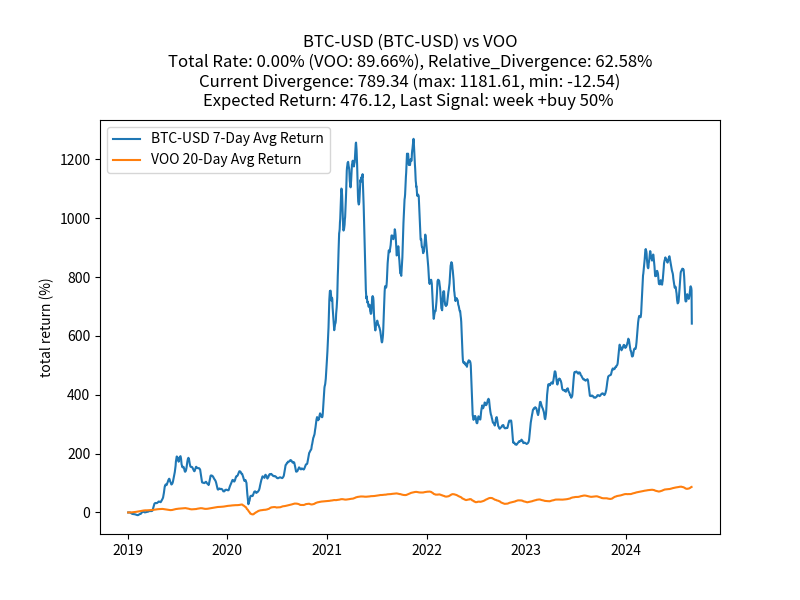
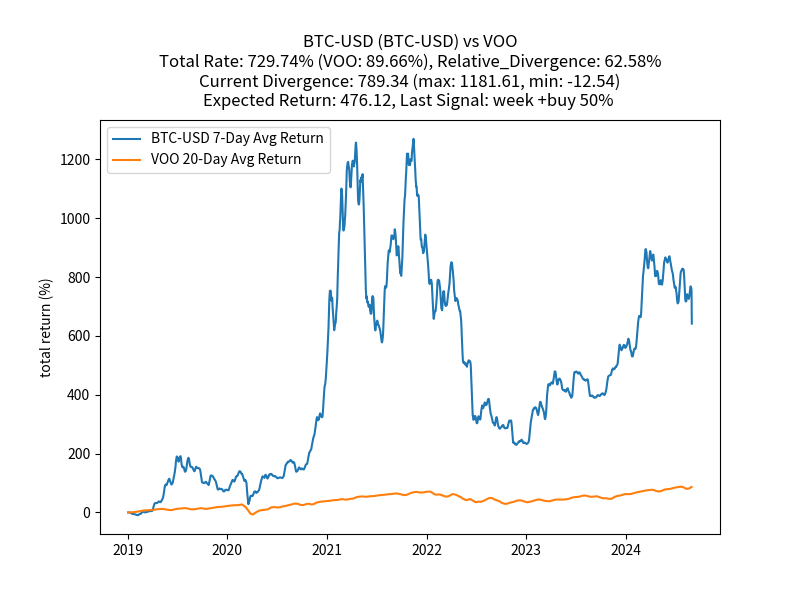
Auto-commit moved files

Changed region(s): [[0.1875, 0.09, 0.8438, 0.12]]

diff --git a/my-flask-app/Results_plot.py b/my-flask-app/Results_plot.py
@@ -109,7 +109,7 @@ async def plot_comparison_results(ticker, start_date, end_date):
     plt.legend(loc='upper left')
 
     voo_rate = df2_graph['rate'].iloc[-1] if not df2_graph.empty else 0 # VOO의 최종 수익률
-    total_rate = df1_graph['rate'].iloc[-1] if not df1_graph.empty else 0 # {ticker}의 최종 수익률
+    total_rate = df1_graph['rate'].iloc[-2] if not df1_graph.empty else 0 # {ticker}의 최종 수익률
     max_divergence = df1['Divergence'].max() 
     min_divergence = df1['Divergence'].min()
     current_divergence = df1['Divergence'].dropna().iloc[-1] if not df1.empty else 0 # 현재 이격도
